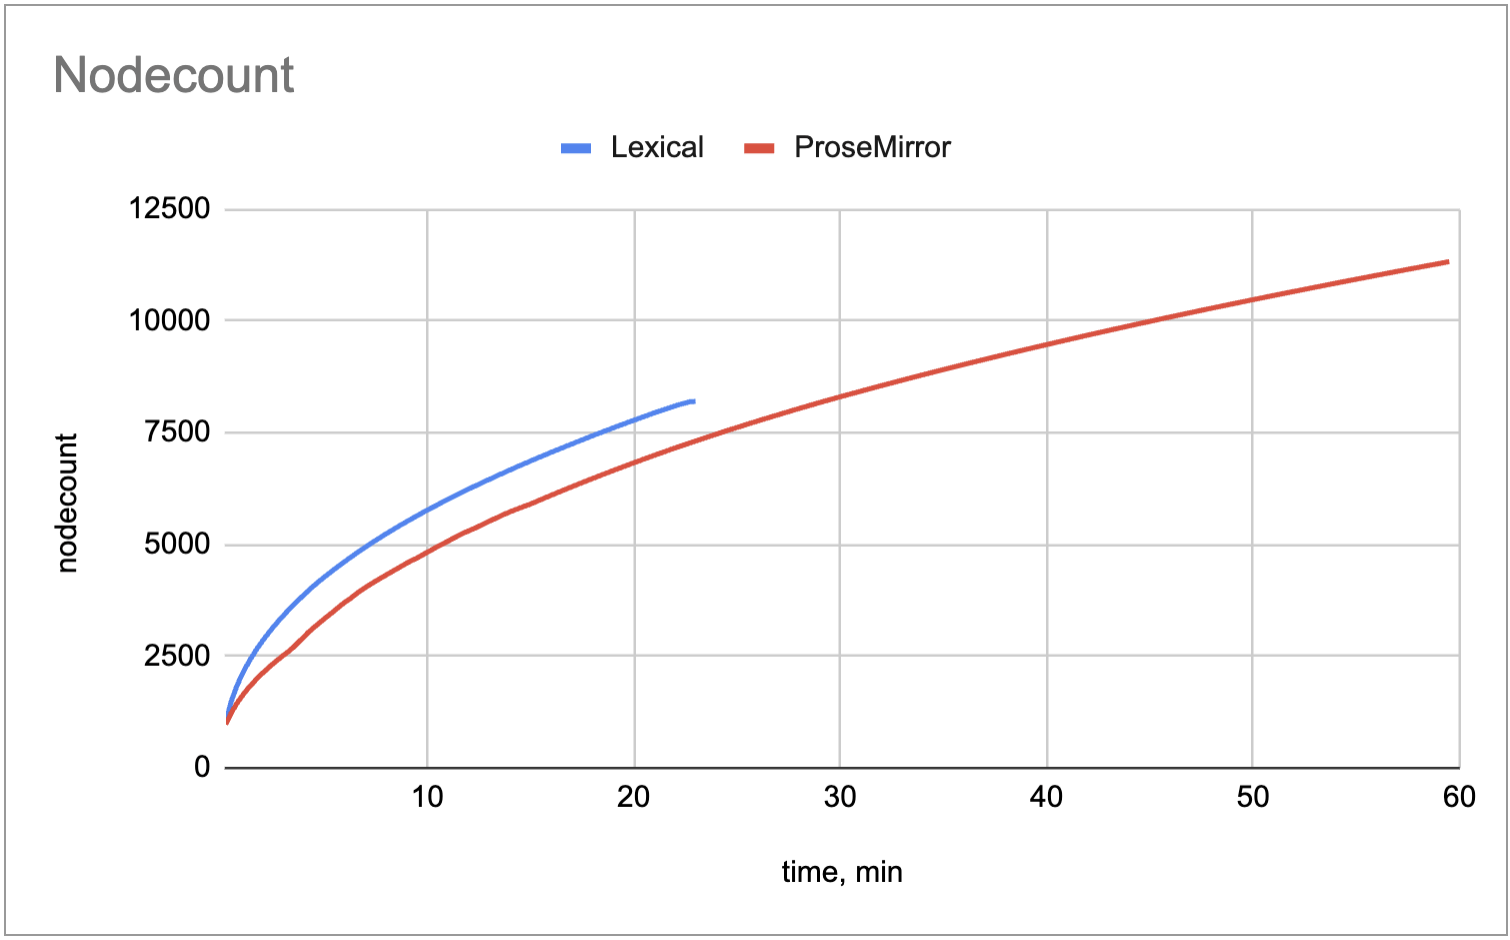
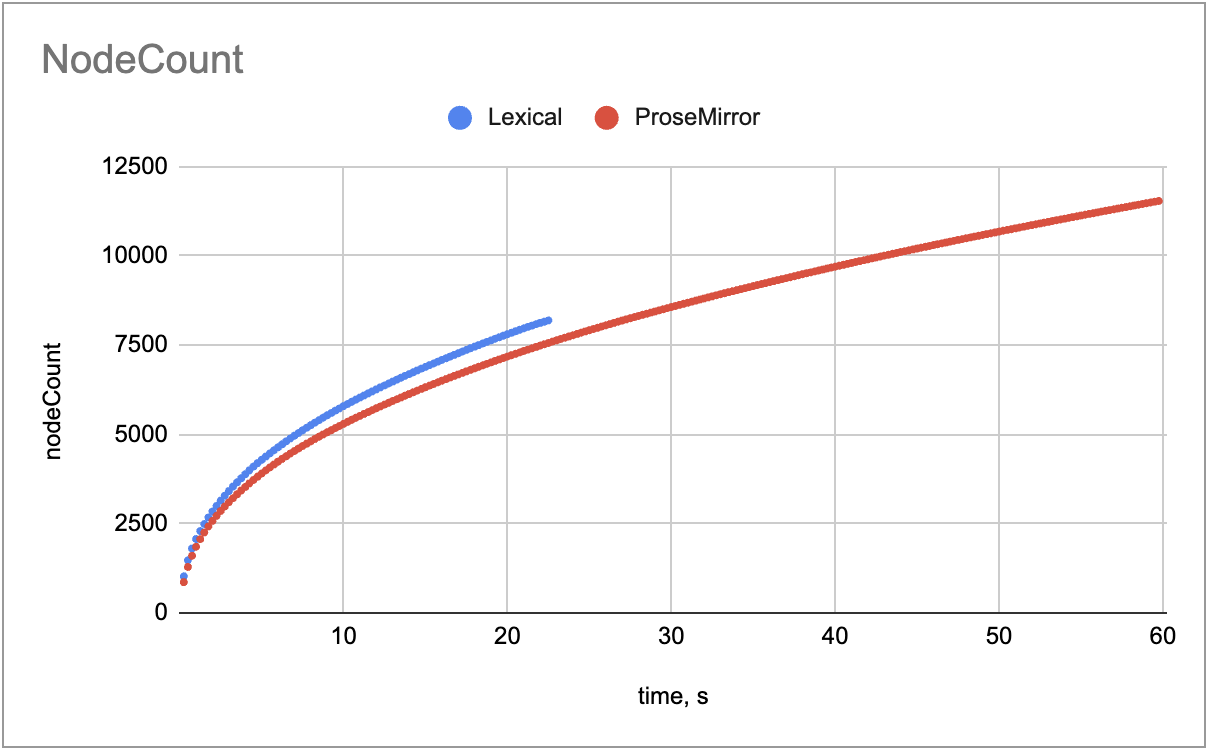
graphs with nodecount, rewritten article

diff --git a/pages/blog/lexical-prosemirror-comparison.tsx b/pages/blog/lexical-prosemirror-comparison.tsx
@@ -35,7 +35,7 @@ The tests showed significant differences between the two editors depending on th
 
 
 ## Introduction
-There are many online platforms where you can edit your text, whether it's a simple note-taking app or a work management site. They are easy to use: the features are familiar from text editor softwares, and sometimes the result is even better - think of image handling and the ability to preview links. These editors are called WYSIWYG (what you see is what you get) editors, and there are several libraries you can use for rich text editing. We tested two for this article: ProseMirror and Lexical.
+There are many online platforms where you can edit your text, whether it's a simple note-taking app or a work management site. They are easy to use: the features are familiar from text editor softwares, and sometimes the result is even better - think of image handling and the ability to preview links. These editors are called WYSIWYG (What You See Is What You Get) editors, and there are several libraries you can use for rich text editing. We tested two for this article: ProseMirror and Lexical.
 
 ## The editors
 The ProseMirror editor was developed by Marijn Haverbeke. It is robust and reliable; it was released about 6 years ago and is maintained regularly. Work management platforms like Asana and widely read newspapers like The New York Times use it without a problem. There are a number of libraries based on the core of this editor, showing the strong foundations that can be built upon. 
@@ -49,11 +49,19 @@ The purpose of this test is to see if there's any difference between the two edi
 The website containing the editors was as clean as possible, built with React, the first load bundle of the ProseMirror editor is 158 KB and the Lexical is 160 KB. Both editors had the same basic features: the ProseMirror had an example setup, and the Lexical got equipped with the same tools.
 
 # Test
-The test was performed using Playwright, running in Chrome, and collecting data using the CDP (Chrome DevTools Protocol). The test mimicked typing a word and pressing the ‘enter’ key in a loop, creating a new paragraph in every line. We collected measurements and nodecount in every 15 seconds and let the test run for one hour. The metrics measured were JSHeapUsedSize, LayoutCount, ThreadTime, and ScriptDuration.
+The test was performed using Playwright, running in Chrome, and collecting data using the CDP (Chrome DevTools Protocol).\\
+The two tests ran one after the other as in the config the number of workers was set to 1. In the beforeEach hook we set the interval for the metrics collection, 
+in the afterEach we cleared it and saved the data. 
+The test mimicked typing a word and pressing the ‘enter’ key in a loop, creating a new paragraph in every line.\\
+We collected measurements in every 15 seconds, recorded timestamps after every 200 nodes, and let each test run for one hour. 
+The metrics measured were JSHeapUsedSize, LayoutCount, and ScriptDuration.
+
 
 ## Note
-You will notice that the Lexical editor stops consistently around the 20-minute mark / 8200 node count in all the tests. The likely cause is related to memory management issues in the long run. 
-The ProseMirror editor could go up to 1 hour, usually reaching 11500 node count.
+You will notice that the Lexical editor stops consistently around 8200 node count (~20 minutes) in all the tests. The likely cause is related to memory management issues in the long run. 
+The ProseMirror editor could go up to 1 hour, usually reaching 11500 node count.\\
+You can also see on some of the graphs how the points get closer and closer to each other as the test progresses. 
+Both editors can process fewer nodes in 15 seconds after some load, and it shows nicely when they get slower.
 
 ## (Bypass)
 As we wanted to make the test as noiseless as possible, a thought arose - could it be that the repetitive CDP data collection is interfering with the test? What if instead we saved the trace JSON file at the end and processed it by filtering for only the relevant metrics? 
@@ -64,8 +72,6 @@ Each metric we measured with the CDP can be roughly calculated from the data of 
 
 \**LayoutCount\**: how often the Layout event occurs (cat: devtools.timeline)
 
-\**ThreadTime\**: RunTask.tdur (cat: devtools.timeline) - we needed here the 'tdur' value because it reflects the actual CPU time used by the thread to perform the task, excluding any potential idle time, waiting periods, or other interruptions where the thread was not actively processing the event
-
 \**JSHeapUsedSize\**: UpdateCounters.args.data.jsHeapSizeUsed (cat: disabled-by-default-devtools.timeline)
 
 The trace file can get very large very quickly, so we had to set a filter for the required categories in the beginning and allocate 8GB of memory for it, with an increased timeout in the afterAll hook to let it save the file. Still, the tracing is not designed for an hour-long test that mimics quite active user interaction, so after about 2.5 minutes it just stopped.
@@ -73,52 +79,63 @@ The trace file can get very large very quickly, so we had to set a filter for th
 And that's how we stayed with the CDP.
 
 \`\`\`typescript
+import { Page, test, CDPSession } from "@playwright/test";
 import { findEditor, relevantMetrics } from "./utils";
+import { EditorParams } from "./types";
 
-const REPEATS = 100000; // to make sure it doesn't finish in an hour
-const MEASUREMENT_INTERVAL = 15000; // ms
+const MEASUREMENT_INTERVAL = 15000; // how often the code saves the metrics you measure - default is 15 sec
+const MAX_NODES = 20000; // how many nodes to insert into the editor - default is 20k to make sure the test doesn't finish before the set timeout
+const NODECOUNT_CHECKPOINT = 200; // the node count at which you want to save the time-nodeCount pair - default is 200
+
 let page: Page;
-
-let nodeCount: number;
-const nodeCountMetrics: number[] = [];
-let nodeCountInterval: NodeJS.Timeout;
-
-const performanceMetrics: Protocol.Performance.Metric[] = [];
-let metricInterval: NodeJS.Timeout;
 let session: CDPSession;
 
-test.beforeAll(async ({ browser }) => {
+let activeEditor: EditorParams;
+let nodeCount: number = 0;
+let metricInterval: NodeJS.Timeout;
+
+test.beforeEach(async ({ browser }) => {
   page = await browser.newPage();
   session = await page.context().newCDPSession(page);
   await session.send("Performance.enable");
-  await findEditor(page, "lexical", ".ContentEditable__root");
-  
-  nodeCountInterval = setInterval(async () => {
-    nodeCountMetrics.push(nodeCount);
-  }, MEASUREMENT_INTERVAL);
+  await findEditor(page, editor, querySelector);
 
-  interval = setInterval(async () => {
+  // set an interval to read and collect the selected metrics in every MEASUREMENT_INTERVAL seconds
+  metricInterval = setInterval(async () => {
     const perfMetrics = await session.send("Performance.getMetrics");
     const filteredPerfMetrics = perfMetrics.metrics.filter((metric) =>
-      relevantMetrics.includes(metric.name), // did not need every metrics
+      relevantMetrics.includes(metric.name),
     );
-    performanceMetrics.push(...filteredPerfMetrics);
+    activeEditor.perfMetrics.push({ metrics: filteredPerfMetrics, nodeCount });
   }, MEASUREMENT_INTERVAL);
+
+  nodeCount = 0;
 });
 
 // the test itself was as light as possible
-test("Lexical stress test", async () => {
-  for (let i = 0; i < REPEATS; i++) {
+test(\`Lexical stress test: infinite nodes\`, async () => {
+  activeEditor = lexicalParams; // and we did the same with the ProseMirror
+  
+  for (let i = 0; i < MAX_NODES; i++) {
     await page.keyboard.type("typing ");
     await page.keyboard.press("Enter");
     nodeCount = i + 1;
+
+    if (nodeCount % NODECOUNT_CHECKPOINT === 0 || nodeCount === 1) {
+      activeEditor.nodeCountMetrics.push({
+        nodeCount: nodeCount,
+        time: performance.now(),
+      });
+    }
   }
 });
 \`\`\`
 
 
 # Nodecount
-We saved the number of nodes (synchronized with the metrics), and it turned out that Lexical could achieve faster performance. When it stopped at about 8200 words, the ProseMirror was usually about to pass the 7600 nodecount. The graph you see is made of the data collected during the ScriptDuration test.
+We saved the \`performance.now()\` timestamp after every 200 nodes, and it turned out that Lexical could achieve faster performance. 
+It hit the first 200 nodes earlier in time and the first metric measurement (15sec) occurred at a higher node count. 
+When it stopped at about 8200 words, the ProseMirror was about to pass the 7600 nodecount.
 `;
 
 const MD1 = /* language=md */ `
@@ -137,34 +154,26 @@ const MD2 = /* language=md */ `
 # LayoutCount
 *LayoutCount is the number of layout operations performed by the editor.* 
 
-\**Lexical and ProseMirror\**: The number of layout operations grows linearly with nodecount in both editors, though ProseMirror performs about three times more operations than Lexical.
+\**Lexical and ProseMirror\**: The number of layout operations grows linearly with nodecount in both editors, though ProseMirror performs about 2-2.5 times more operations than Lexical.
 
 \**Conclusions\**: In ProseMirror, each user interaction or change generates a transaction, and the editor state is synchronized with the DOM after each transaction. This leads to a higher LayoutCount and is potentially more responsive to user input, providing smoother and quicker updates to the layout. On the other hand, Lexical batches multiple synchronous updates of the editor state into a single asynchronous update to the DOM. This approach improves performance in the short term by reducing the frequency of layout recalculations.
 `;
 
 const MD3 = /* language=md */ `
 
-# ThreadTime
-*ThreadTime refers to the CPU time consumed by the thread handling the editor's operations.*
-
-\**Lexical and ProseMirror\**: As more nodes are added to the editor, the computational load increases, resulting in higher CPU usage. 
-
-\**Conclusions\**: While Lexical's node count grows quickly initially, its ThreadTime remains overall lower compared to ProseMirror, indicating that Lexical processes nodes more efficiently at lower node counts. 
-`;
-
-const MD4 = /* language=md */ `
 
 # JSHeapUsedSize
 *The JSHeapUsedSize is the actual memory being used at any point in time, measured in bytes - here, converted to MB.*
 
-\**Lexical\**: Lexical shows a continuous upward trend, indicating increasing memory usage over time, suggesting a potential memory leak or inefficient memory management as the test progresses. The graph stops at about 3.6 GB of memory usage around 23 minutes into the test. 
+\**Lexical\**: Lexical shows a continuous upward trend, indicating increasing memory usage over time, suggesting a potential memory leak 
+or inefficient memory management as the test progresses. The graph stops at about 3.7 GB of memory usage around 23 minutes into the test. 
 
-\**ProseMirror\**: The JSHeapUsedSize for ProseMirror fluctuates slightly, but remains mostly between 10 and 20 MB throughout the test. The fluctuations indicate minor changes in memory usage, but there is no significant increase or memory leak observed, demonstrating efficient memory management.
+\**ProseMirror\**: The JSHeapUsedSize for ProseMirror fluctuates slightly, but remains mostly between 12 and 22 MB throughout the test. The fluctuations indicate minor changes in memory usage, but there is no significant increase or memory leak observed, demonstrating efficient memory management.
 
 \**Conclusions\**: Lexical users might initially experience responsive performance, but as memory usage increases, they could face lagging, slowdowns, and eventually crashes or unresponsiveness.
 `;
 
-const MD5 = /* language=md */ `
+const MD4 = /* language=md */ `
     
 # Results
 Both editors have their own pros and cons. \n 
@@ -172,7 +181,7 @@ Lexical initially handles the data load better and provides faster content proce
 \n However, if you need an editor for heavier tasks, ProseMirror offers a stable and robust solution (and has more thorough documentation). Whether you are building a CMS (Content Management System), an ECM (Enterprise Content Management), or just need an online editor for your blog, you can count on ProseMirror.
 
 
-Here you find the \**public repository\**  to which we’ve uploaded the tests, so feel free to rerun them or use them as a starting point if you’ve got further ideas - and please tell us about it too!
+Here you find the [public repository](https://github.com/emergence-engineering/prosemirror-vs-lexical-performance-comparison)  to which we’ve uploaded the test with some graph-generation options - feel free to rerun them or use them as a starting point if you’ve got further ideas - and please tell us about it!
 `;
 
 const Article = () => (
@@ -192,7 +201,7 @@ const Article = () => (
     <Markdown source={MD0} />
     <br />
 
-    <div style={{ ...imageStyle, width: "80%" }}>
+    <div style={{ ...imageStyle}}>
       <Image
         src="/article19-nodeCount.png"
         alt="image"
@@ -229,28 +238,26 @@ const Article = () => (
 
     <Markdown source={MD3} />
     <br />
-    <div style={imageStyle}>
+    <div style={{...imageStyle, aspectRatio: "3/1"} }>
       <Image
-        src={"/article19-threadTime.png"}
+        src={"/article19-jsHeapUsedSize1.png"}
         alt="image"
         fill
         style={{ objectFit: "contain" }}
         sizes="(max-width: 768px) 100vw, 60vw"
       />
     </div>
-    <Markdown source={MD4} />
-    <br />
     <div style={imageStyle}>
       <Image
-        src={"/article19-JSHeapUsedSize.png"}
-        alt="image"
-        fill
-        style={{ objectFit: "contain" }}
-        sizes="(max-width: 768px) 100vw, 60vw"
+          src={"/article19-jsHeapUsedSize2.png"}
+          alt="image"
+          fill
+          style={{ objectFit: "contain" }}
+          sizes="(max-width: 768px) 100vw, 60vw"
       />
     </div>
 
-    <Markdown source={MD5} />
+    <Markdown source={MD4} />
     <SalesBox />
   </ArticleWrapper>
 );

diff --git a/features/twBlog/TwBlog.tsx b/features/twBlog/TwBlog.tsx
@@ -17,6 +17,8 @@ import { articlePluginSystemMetadata } from "../../pages/blog/prosemirror-plugin
 import { articlePNPMMetadata } from "../../pages/blog/monorepo-workspace-with-pnpm-and-git-submodules";
 import { articleLexicalSlashMenuMetadata } from "../../pages/blog/lexical-slash-menu-plugin";
 import { articleProgrammerArchetypes } from "../../pages/blog/programmer-archetypes";
+import {article19Metadata} from "../../pages/blog/lexical-prosemirror-comparison";
+
 import PostCard from "./PostCard";
 import TabComponent from "./TabComponent";
 import { articlePMMetadata } from "../../pages/blog/prosemirror";
@@ -58,6 +60,7 @@ const TwBlog: FunctionComponent = () => {
             <PostCard {...article17Metadata} />
             <PostCard {...articlePluginSystemMetadata} />
             <PostCard {...articleLexicalSlashMenuMetadata} />
+              <PostCard {...article19Metadata} />
           </>
         )}
       </div>
